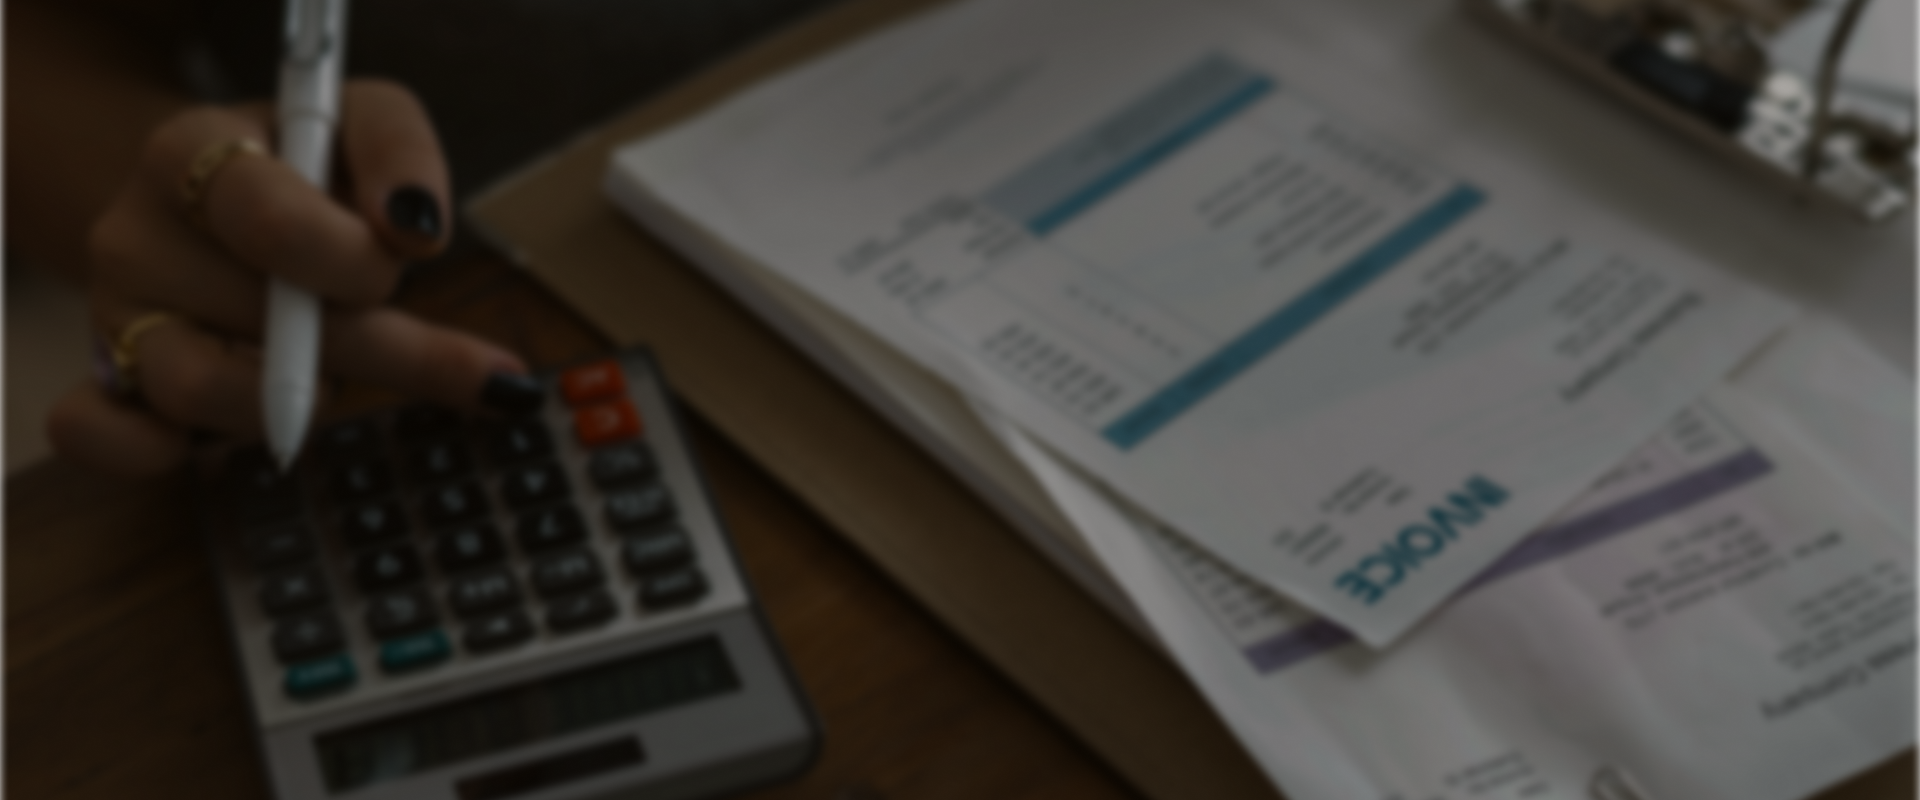
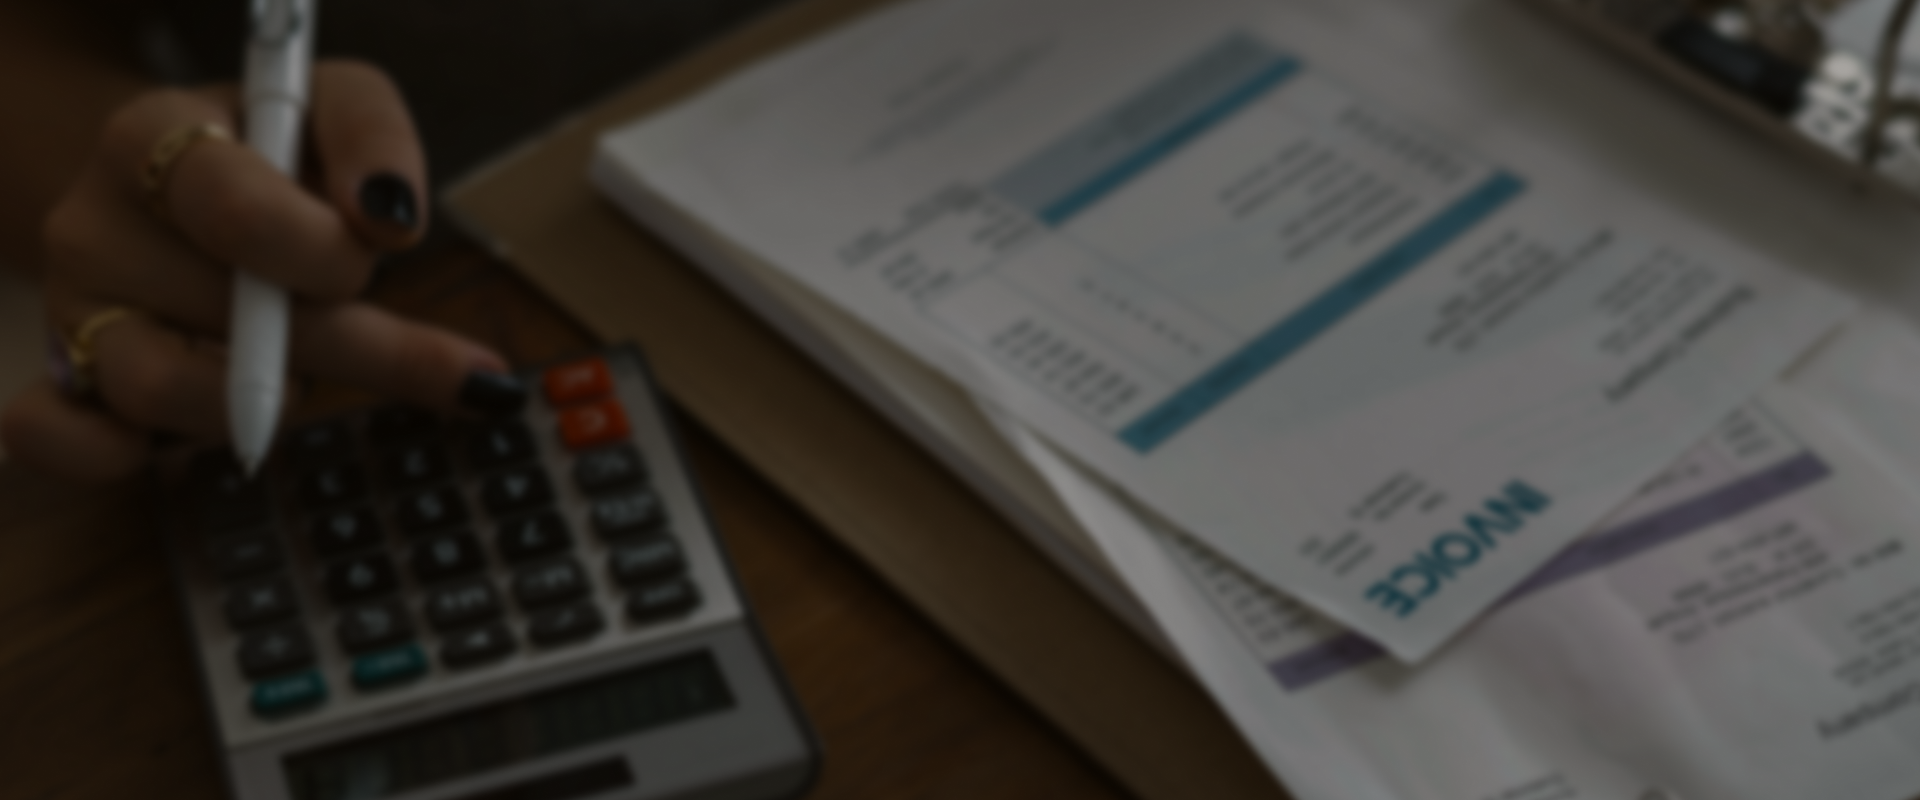
redesign

diff --git a/index.html b/index.html
@@ -15,11 +15,10 @@
         <div class="container">
             <div class="row justify-content-between">
                 <div class="col logo">
-                    <img src="img/logo.png">
                     <div class="uppercase">Ваш инвестор</div>
                 </div>
                 <div class="col tel d-flex justify-content-end">
-                    <img src="img/icon-tel.png" class="">
+                    <img src="img/icon-tel.png" class="" alt="">
                     <div class="uppercase d-inline">+7 983 232 60 06</div>
                 </div>
             </div>
@@ -30,9 +29,9 @@
     <div class="container-fluid hero">
         <div class="container">
             <div class="row justify-content-between">
-                <div class="col-md-6 col-lg-7 col-xl-8 color-white hero-text">
-                    <div class="text-h1">Заем денег с вашинвестор.рф — быстро и легко</div>
-                    <div class="text-h3">Заполните заявку и получите<br> деньги уже сегодня</div>
+                <div class="col-md-6 col-lg-7 color-white hero-text">
+                    <div class="text-h1">Частные займы — быстро и легко</div>
+                    <div class="text-h3 mt-30">Заполните заявку и получите<br> деньги уже сегодня</div>
                 </div>
                 <div class="col-md-6 col-lg-5 col-xl-4">
                     <div class="col hero-form">
@@ -54,28 +53,28 @@
         </div>
     </div>
 
-    <!-- Выдаем займы быстро -->
+    <!-- Выдаём займы быстро -->
     <div class="container-fluid">
         <div class="container py-120 text-center">
-            <div class="text-h2">Выдаем займы быстро</div>
-            <div class="text-h3">3 простых шага для получения денег</div>
+            <div class="text-h2">Выдаём займы быстро</div>
+            <div class="text-h3 mt-30">3 простых шага для получения денег</div>
             <div class="row justify-content-center">
                 <div class="col-12 col-md-3 mt-60">
-                    <img src="img/icon1-v2.png" class="image">
+                    <img src="img/icon1.png" class="image" alt="">
                     <div class="text-h3 mt-30">Заполните заявку</div>
                 </div>
                 <div class="col">
-                    <img src="img/arrow.png" style="margin-top:130px" class="image-a">
+                    <img src="img/arrow.png" style="margin-top:130px" class="image-a" alt="">
                 </div>
                 <div class="col-12 col-md-3 mt-60">
-                    <img src="img/icon2-v2.png" class="image">
+                    <img src="img/icon2.png" class="image" alt="">
                     <div class="text-h3 mt-30">Дождитесь<br>одобрения заявки</div>
                 </div>
                 <div class="col">
-                    <img src="img/arrow.png" style="margin-top:130px"class="image-a">
+                    <img src="img/arrow.png" style="margin-top:130px" class="image-a" alt="">
                 </div>
                 <div class="col-12 col-md-3 mt-60">
-                    <img src="img/icon3-v2.png" class="image">
+                    <img src="img/icon3.png" class="image" alt="">
                     <div class="text-h3 mt-30">Получите деньги</div>
                 </div>
             </div>
@@ -86,21 +85,21 @@
     <div class="container-fluid hero2">
         <div class="container py-120 text-center">
             <div class="text-h2 color-white">С нами выгодно</div>
-            <div class="text-h3 color-white">Заем денег без лишних формальностей</div>
+            <div class="text-h3 color-white mt-30">Заем денег без лишних формальностей</div>
             <div class="row justify-content-center">
                 <div class="col-12 col-md text-center hero2-card mt-60">
                     <div class="text-h3 mb-30">С любой кредитной историей</div>
-                    <img src="img/icon4-v2.png" style="height: 120px">
-                    <div class="text-h4 mt-30">Получите деньги вне зависисти от вашей кредитной истории</div>
+                    <img src="img/icon4.png" style="height: 120px" alt="">
+                    <div class="text-h4 mt-30">Получите деньги вне зависимости от вашей кредитной истории</div>
                 </div>
                 <div class="col-12 col-md text-center hero2-card mt-60">
                     <div class="text-h3 mb-30">Без справок и поручителей</div>
-                    <img src="img/icon5-v2.png" style="height: 120px; margin-left:20px">
+                    <img src="img/icon5.png" style="height: 120px; margin-left:20px" alt="">
                     <div class="text-h4 mt-30">Минимум документов для заключения договора</div>
                 </div>
                 <div class="col-12 col-md text-center hero2-card mt-60">
                     <div class="text-h3 mb-30">Без скрытых платежей</div>
-                    <img src="img/icon6-v2.png" style="height: 120px; margin-left:35px">
+                    <img src="img/icon6.png" style="height: 120px; margin-left:35px" alt="">
                     <div class="text-h4 mt-30">Прозрачные условия получения займа</div>
                 </div>
             </div>
@@ -111,19 +110,19 @@
     <div class="container-fluid">
         <div class="container py-120 text-center">
             <div class="text-h2">Наши услуги</div>
-            <div class="text-h3">Выдаем займы под залог недвижимости и автомобиля</div>
+            <div class="text-h3 mt-30">Выдаём займы под залог недвижимости и автомобиля</div>
             <div class="row justify-content-center">
                 <div class="col-12 col-md-9 col-lg-4 text-center mt-60">
-                    <img src="img/card1.png" class="w-100">
+                    <img src="img/card1.png" class="w-100" alt="">
                     <div class="text-h3 mb-30 card-title">Займы под залог автомобиля</div>
                 </div>
                 <div class="col-12 col-md-9 col-lg-4 text-center mt-60">
-                    <img src="img/card2.png" class="w-100">
-                    <div class="text-h3 mb-30 card-title">Займы под залог ПТС</div>
+                    <img src="img/card2.png" class="w-100" alt="">
+                    <div class="text-h3 mb-30 card-title">Займы под залог<div class="dnone"></div> ПТС</div>
                 </div>
                 <div class="col-12 col-md-9 col-lg-4 text-center mt-60">
-                    <img src="img/card3.png" class="w-100">
-                    <div class="text-h3 mb-30 card-title">Займы под залог недвижимсоти</div>
+                    <img src="img/card3.png" class="w-100" alt="">
+                    <div class="text-h3 mb-30 card-title">Займы под залог недвижимости</div>
                 </div>
             </div>
         </div>
@@ -136,12 +135,14 @@
             <div class="text-h3">Заполните заявку</div>
             <input type="text" placeholder="Имя" class="form-control btn-h mt-30" name="name" form="form2">
             <input type="tel" placeholder="Телефон" class="form-control btn-h mt-30" name="phone" form="form2">
-            <select class="form-control btn-h  mt-30" name="select">
-                <option disabled selected value="0">Вид залога</option>
-                <option value="1">Автомобиль</option>
-                <option value="2">ПТС</option>
-                <option value="3">Недвижимость</option>
-            </select>
+
+                <select class="form-control btn-h  mt-30" name="select">
+                    <option disabled selected value="0">Вид залога</option>
+                    <option value="1">Автомобиль</option>
+                    <option value="2">ПТС</option>
+                    <option value="3">Недвижимость</option>
+                </select>
+
             <input type="number" placeholder="Сумма займа" class="form-control btn-h mt-30" name="number" form="form2">
             <div class="custom-control custom-checkbox mt-4 text-left  mt-30">
                 <input type="checkbox" class="custom-control-input" id="Check2" name="check" form="form2">
@@ -157,11 +158,11 @@
     <div class="container-fluid footer py-60">
         <div class="container">
             <div class="row justify-content-between">
-                <div class="col">
+                <div class="col-12 col-sm">
                     <div class="text-h4 color-white">© 2018 Выдача займов «Ваш инвестор»</div>
                     <div class="text-h4 mt-30"><a href="#" class="color-white">Политика обработки персональных данных</a></div>
                 </div>
-                <div class="col justify-content-end text-right">
+                <div class="col-12 col-sm justify-content-end text-right">
                     <div class="text-h4 color-white">+7 983 232 60 06</div>
                     <div class="text-h4 mt-30"><a href="#" class="color-white">info@вашинвестор.ru</a></div>
                 </div>
@@ -179,7 +180,7 @@
                 alert('Заполните поле «Ваше имя»');
                 return false;}
             /* контактный телефон */
-            if(data.phone != null && data.phone.value.length == 0)
+            if(data.phone != null && data.phone.value.length === 0)
             {
                 alert('поле «Контактный телефон» пустое');
                 return false;}
@@ -198,6 +199,10 @@
                 return false;
             }
         }
+
+        /**
+         * @return {boolean}
+         */
         function Formdata2(data){
             /* если не заполнено поле Ваше имя, длина менее 3-x*/
             if (data.name != null && data.name.value.length < 3 )
@@ -205,7 +210,7 @@
                 alert('Заполните поле «Ваше имя»');
                 return false;}
             /* контактный телефон */
-            if(data.phone != null && data.phone.value.length == 0)
+            if(data.phone != null && data.phone.value.length === 0)
             {
                 alert('поле «Контактный телефон» пустое');
                 return false;}

diff --git a/css/index.css b/css/index.css
@@ -1,22 +1,22 @@
 @import url('https://fonts.googleapis.com/css?family=Roboto|Roboto+Condensed&subset=cyrillic');
 
 body{
-    font-family: "Roboto";
+    font-family: "Roboto", sans-serif;
 }
 .text-h1{
-    font-family: "Roboto Condensed";
-    font-size: 54px;
+    font-family: "Roboto Condensed", sans-serif;
+    font-size: 64px;
 }
 .text-h2{
-    font-family: "Roboto Condensed";
+    font-family: "Roboto Condensed", sans-serif;
     font-size: 48px;
 }
 .text-h3{
-    font-family: "Roboto";
+    font-family: "Roboto", sans-serif;
     font-size: 24px;;
 }
 .text-h4{
-    font-family: "Roboto";
+    font-family: "Roboto", sans-serif;
     font-size: 16px;
 }
 .uppercase{
@@ -59,7 +59,7 @@ body{
     padding-bottom: 60px;
 }
 input{
-    font-family: "Roboto";
+    font-family: "Roboto", sans-serif;
 }
 .form-control:focus {
     color: #495057;
@@ -89,21 +89,14 @@ input{
     height: 80px;
 }
 .logo{
-    font-size: 20px;
-
-}
-.logo img{
+    font-size: 22px;
+    font-family: "Roboto Condensed", sans-serif;
     display: inline-flex;
-    margin-top:-13px;
-}
-.logo div{
-    display: inline-flex;
-    margin-top:34px;
-    margin-left:-19px;
-    font-family: "Roboto Condensed";
+    margin-top:30px;
 }
 .tel{
     font-size: 22px;
+    font-family: "Roboto Condensed", sans-serif;
     margin-top: 30px;
 }
 .tel img{
@@ -114,7 +107,7 @@ input{
 .hero{
     background: url("../img/hero.png");
     min-height: 800px;
-
+    background-size: cover;
 }
 .hero-text{
     margin-top:200px
@@ -128,6 +121,9 @@ input{
     padding: 60px;
     border-radius: 30px;
     margin:150px auto 60px;
+}
+.hero-form .text-h3{
+    text-align: center;
 }
 .btn-h{
     height: 50px;
@@ -174,8 +170,14 @@ input{
     .card-title{
         min-height: 140px;
     }
+    .dnone{
+        display: none
+    }
+    .hero2 .text-h3{
+        font-size: 20px;
+    }
 }
-@media (max-width: 1000px) {
+@media (max-width: 991px) {
     .hero-text .text-h1{
         font-size:42px;
     }
@@ -188,25 +190,35 @@ input{
     .card-title{
         min-height: 66px;
     }
+    .hero2 .text-h3{
+        font-size: 24px;
+    }
+    .hero{
+        text-align: center;
+    }
 }
 @media (max-width: 767px) {
     .image-a{
         display: none;
     }
+    .hero-text{
+        margin-top: 50px;
+    }
+    .hero-form{
+        margin-top: 50px;
+    }
+
 }
 
+@media (max-width: 576px) {
+    .footer .text-right{
+        text-align: left !important;
+        margin-top: 30px;
+    }
+}
 @media (max-width: 500px) {
     .logo{
         font-size: 16px;
-    }
-    .logo img{
-        width: 40px;
-    }
-    .logo div{
-        display: inline-flex;
-        margin-top:30px;
-        margin-left:-14px;
-        font-family: "Roboto Condensed";
     }
     .tel{
         font-size: 16px;
@@ -215,12 +227,8 @@ input{
     .tel img{
         display: none;
     }
-}
-@media (max-width: 364px) {
-
-    .logo{
-        font-size: 12px;
+    .bottom-form, .hero-form{
+        padding: 30px 20px;
+        border-radius: 15px;
     }
-    .tel{
-        font-size: 12px;}
 }
